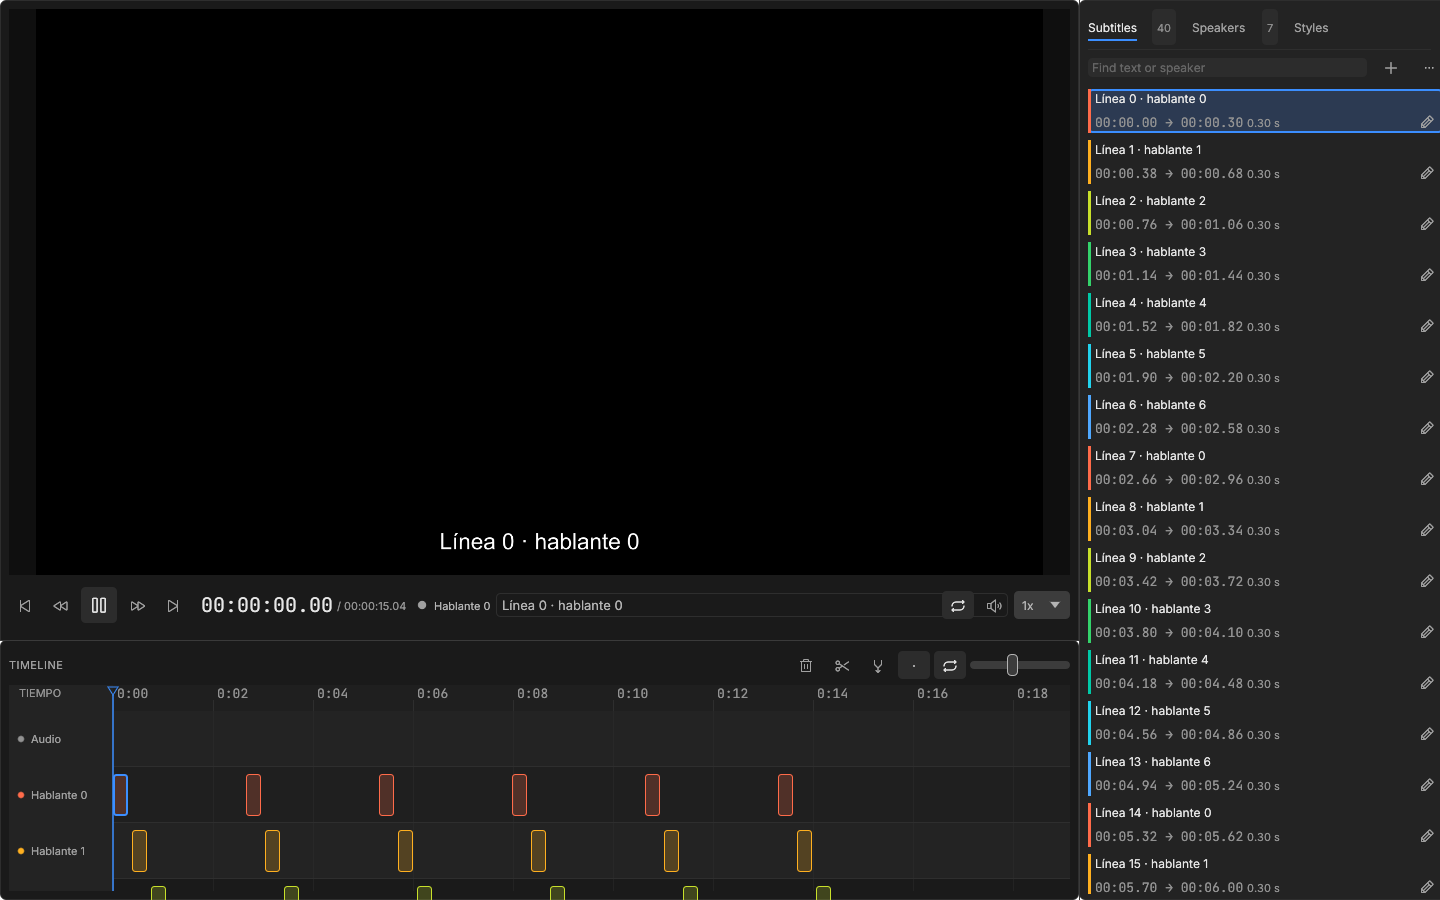
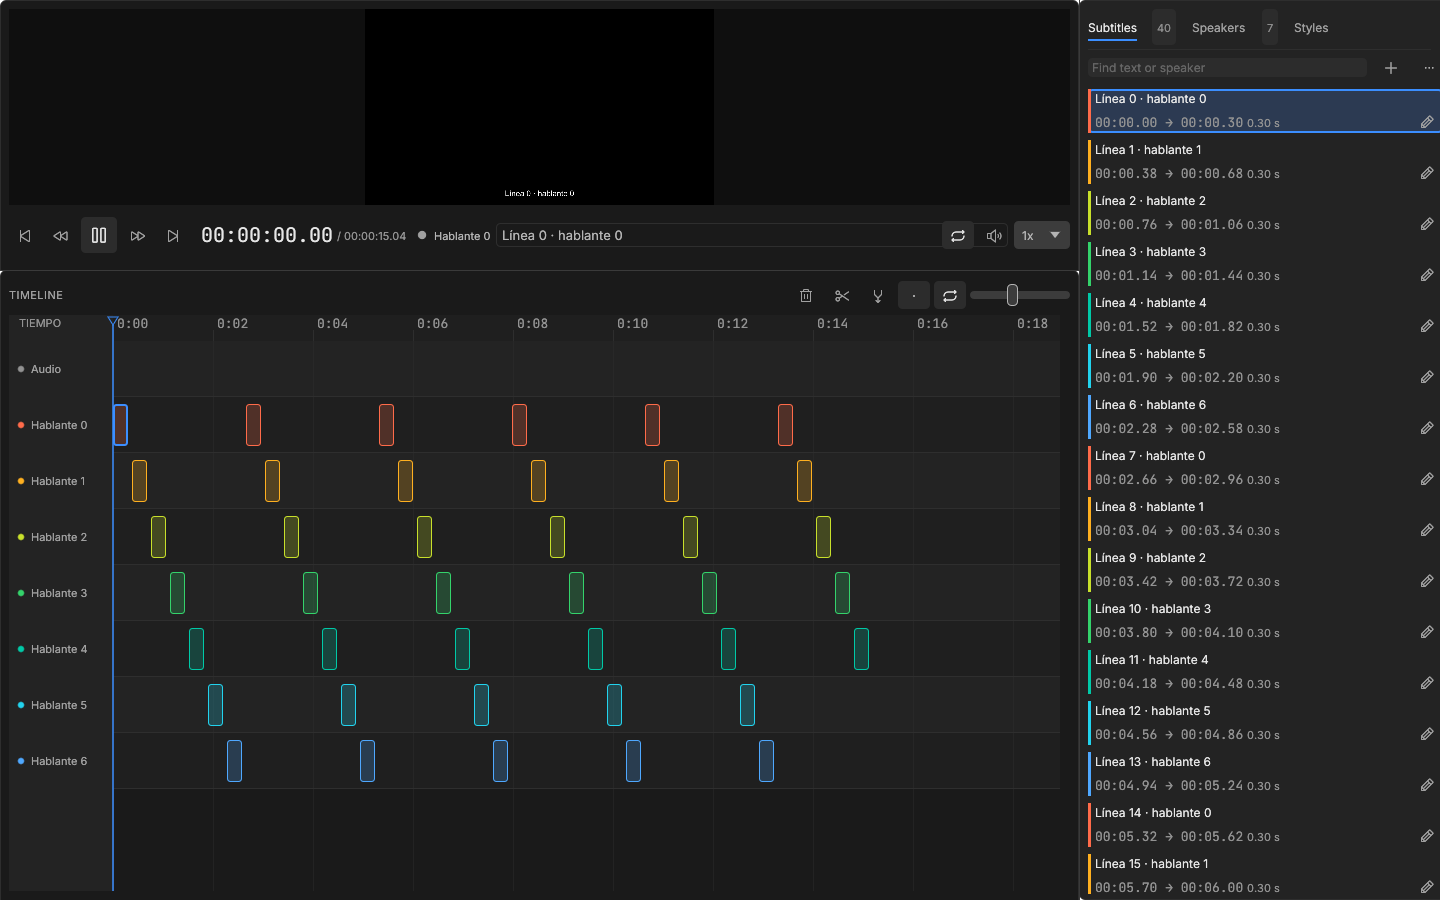
feat(layout): scrollbar de pistas y capturas

diff --git a/crates/app/src/ui/timeline.rs b/crates/app/src/ui/timeline.rs
@@ -128,6 +128,15 @@ pub fn desplazar(scroll: f32, lineas: f32, filas: usize, alto: f32) -> f32 {
     (scroll + lineas).clamp(0.0, max_scroll_pistas(filas, alto))
 }
 
+/// Posición de scroll que corresponde a un punto de la scrollbar.
+pub fn scroll_desde_barra(y_rel: f32, alto: f32, filas: usize) -> f32 {
+    let max = max_scroll_pistas(filas, alto);
+    if alto <= 0.0 || max <= 0.0 {
+        return 0.0;
+    }
+    (y_rel / alto * max).clamp(0.0, max)
+}
+
 /// Etiqueta adaptativa: `m:ss` para ticks de 1 s o más, `m:ss.d` si no.
 fn etiqueta_regla(segundos: f64, paso: f64) -> String {
     let minutos = (segundos / 60.0).floor() as u64;
@@ -204,8 +213,13 @@ fn paso_de_regla(escala: f64) -> f64 {
 }
 
 pub fn mostrar(ui: &mut Ui, state: &mut EditorApp, textos: &Textos) -> Vec<MensajeEditor> {
+    let alto = ui.available_height();
     let (rect, respuesta) = ui.allocate_exact_size(
-        Vec2::new(ui.available_width(), ui.available_height()),
+        Vec2::new(ui.available_width() - tema::ANCHO_SCROLLBAR, alto),
+        egui::Sense::click_and_drag(),
+    );
+    let (barra, respuesta_barra) = ui.allocate_exact_size(
+        Vec2::new(tema::ANCHO_SCROLLBAR, alto),
         egui::Sense::click_and_drag(),
     );
     let painter = ui.painter();
@@ -472,6 +486,32 @@ pub fn mostrar(ui: &mut Ui, state: &mut EditorApp, textos: &Textos) -> Vec<Mensa
             ],
             egui::Stroke::new(1.0_f32, tema::ACENTO),
         ));
+    }
+
+    // Scrollbar: solo cuando hay más pistas que caben. El pulgar crece con
+    // la fracción visible y se desplaza por el recorrido que sobra.
+    let max_scroll = max_scroll_pistas(filas, rect.height());
+    if max_scroll > 0.0 {
+        painter.rect_filled(barra, egui::CornerRadius::ZERO, tema::LATERAL);
+        let pulgar_alto = barra.height() * filas_visibles(rect.height()) as f32 / filas as f32;
+        let pulgar_y = barra.min.y + scroll / max_scroll * (barra.height() - pulgar_alto);
+        painter.rect_filled(
+            egui::Rect::from_min_max(
+                egui::pos2(barra.min.x, pulgar_y),
+                egui::pos2(barra.max.x, pulgar_y + pulgar_alto),
+            ),
+            egui::CornerRadius::same(3),
+            tema::BORDE_CONTROL,
+        );
+        if (respuesta_barra.clicked() || respuesta_barra.dragged())
+            && let Some(pos) = respuesta_barra.interact_pointer_pos()
+        {
+            mensajes.push(MensajeEditor::ScrollPistas(scroll_desde_barra(
+                pos.y - barra.min.y,
+                barra.height(),
+                filas,
+            )));
+        }
     }
 
     // Los eventos llegan en coordenadas locales del rect del timeline: el

diff --git a/crates/app/examples/capturas.rs b/crates/app/examples/capturas.rs
@@ -98,13 +98,14 @@ fn capturar_editor(
     alto: f32,
     idioma: rod_app::textos::Idioma,
     panel: Option<rod_app::editor_app::Panel>,
+    num_hablantes: usize,
 ) {
     let video = concat!(
         env!("CARGO_MANIFEST_DIR"),
         "/../../testdata/clip-15s-2audio.mp4"
     );
     let mut proyecto = rod_core::Proyecto::nuevo(video);
-    for i in 0..7 {
+    for i in 0..num_hablantes {
         proyecto.hablantes.push(rod_core::Hablante {
             id: format!("h{i}"),
             nombre: format!("Hablante {i}"),
@@ -223,6 +224,7 @@ fn main() {
                 900.0,
                 rod_app::textos::Idioma::En,
                 Some(rod_app::editor_app::Panel::Subtitulos),
+                7,
             );
         }
         capturar_editor(
@@ -231,6 +233,7 @@ fn main() {
             900.0,
             rod_app::textos::Idioma::En,
             Some(rod_app::editor_app::Panel::Subtitulos),
+            7,
         );
         for ancho in [1100_u32, 1440, 2560] {
             capturar_editor(
@@ -239,6 +242,17 @@ fn main() {
                 900.0,
                 rod_app::textos::Idioma::En,
                 Some(rod_app::editor_app::Panel::Estilos),
+                7,
+            );
+        }
+        for ancho in [1100_u32, 1440, 2560] {
+            capturar_editor(
+                &format!("revision-pistas-{ancho}"),
+                ancho as f32,
+                900.0,
+                rod_app::textos::Idioma::En,
+                Some(rod_app::editor_app::Panel::Subtitulos),
+                12,
             );
         }
     }
@@ -354,6 +368,7 @@ fn main() {
                 900.0,
                 rod_app::textos::Idioma::En,
                 Some(panel),
+                7,
             );
         }
     }
@@ -380,6 +395,7 @@ fn main() {
                 alto,
                 rod_app::textos::Idioma::En,
                 None,
+                7,
             );
         }
         capturar(

diff --git a/crates/app/tests/layout.rs b/crates/app/tests/layout.rs
@@ -1,4 +1,20 @@
 #[test]
+fn sin_scrollbar_cuando_todas_caben() {
+    use rod_app::ui::timeline::{max_scroll_pistas, scroll_desde_barra};
+
+    assert_eq!(max_scroll_pistas(4, 700.0), 0.0);
+    assert_eq!(scroll_desde_barra(350.0, 700.0, 4), 0.0);
+}
+
+#[test]
+fn scrollbar_mapa_el_tamanio_de_la_barra() {
+    use rod_app::ui::timeline::scroll_desde_barra;
+
+    assert_eq!(scroll_desde_barra(0.0, 700.0, 15), 0.0);
+    assert_eq!(scroll_desde_barra(700.0, 700.0, 15), 3.0);
+}
+
+#[test]
 fn limites_de_scroll_por_pistas() {
     use rod_app::ui::timeline::{desplazar, filas_visibles, max_scroll_pistas};
 

diff --git a/crates/app/src/ui/tema.rs b/crates/app/src/ui/tema.rs
@@ -64,6 +64,8 @@ pub const ANCHO_SUBRAYADO: f32 = 72.0;
 pub const ANCHO_FILTRO: f32 = 160.0;
 pub const ALTO_BOTON_CHICO: f32 = 28.0;
 pub const GROSOR_PUNTEADO: f32 = 1.5;
+/// Barra vertical de las pistas del timeline.
+pub const ANCHO_SCROLLBAR: f32 = 10.0;
 pub const ANCHO_PANEL_DEFECTO: f32 = 320.0;
 pub const ANCHO_PANEL_MIN: f32 = 280.0;
 pub const ANCHO_PANEL_MAX: f32 = 420.0;
